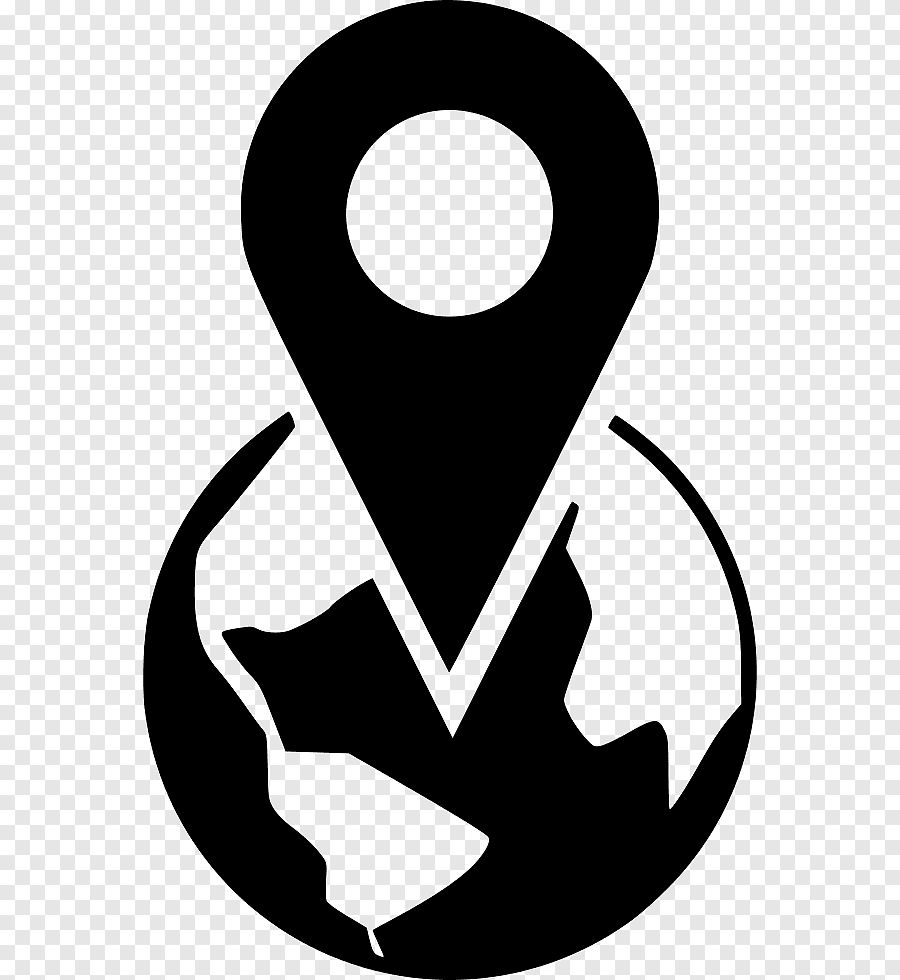
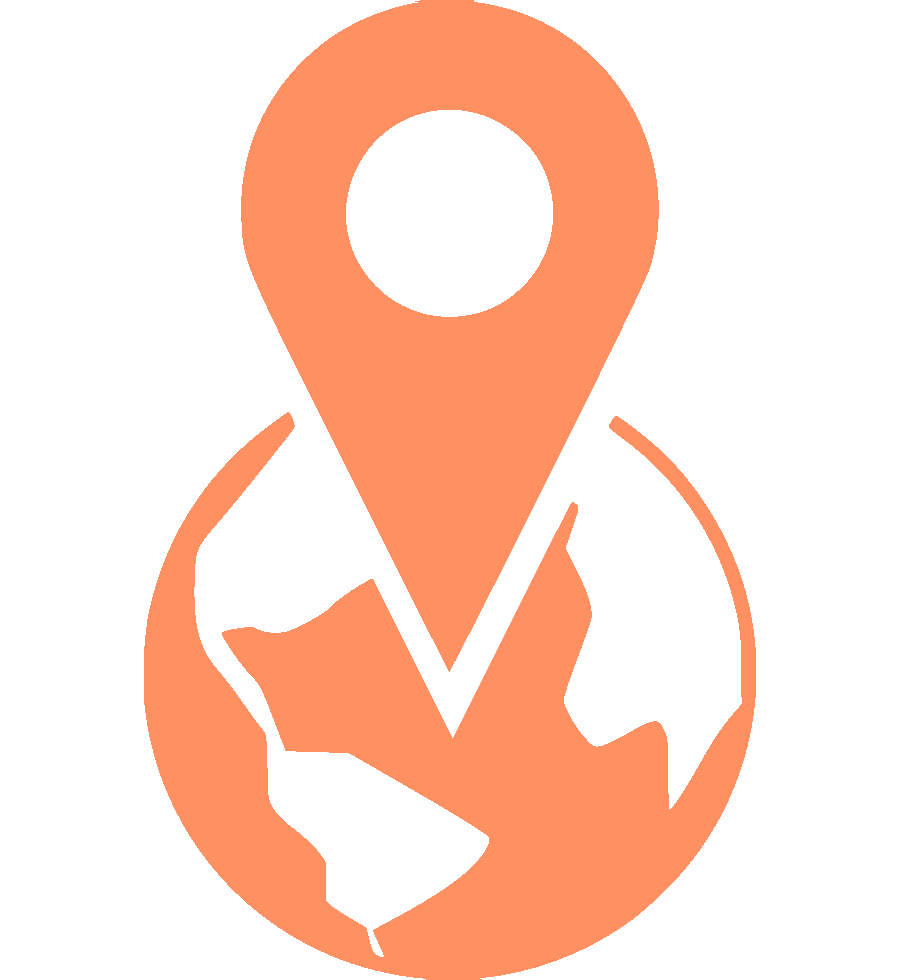
Adding color to the background and the text, also added a filter on the map with js.

diff --git a/src/assets/sass/style.css b/src/assets/sass/style.css
@@ -1,10 +1,11 @@
 @charset "UTF-8";
 body {
-  background: whitesmoke;
+  background: #11223B;
+  color: #FF9061;
   cursor: grab;
 }
 body h1 {
-  color: #9b7241;
+  color: #EB7A5E;
   font-size: 2rem;
 }
 body #popup-content p {
@@ -23,16 +24,16 @@ body aside #arrowNav {
   margin-bottom: auto;
   padding-top: 10px;
   padding-bottom: 10px;
-  border-left: black 3px solid;
-  border-bottom: black 3px solid;
-  border-top: black 3px solid;
+  border-left: #EB7A5E 3px solid;
+  border-bottom: #EB7A5E 3px solid;
+  border-top: #EB7A5E 3px solid;
   border-top-left-radius: 30%;
   border-bottom-left-radius: 30%;
 }
 body aside nav {
-  border-left: black 3px solid;
-  border-bottom: black 3px solid;
-  border-top: black 3px solid;
+  border-left: #EB7A5E 3px solid;
+  border-bottom: #EB7A5E 3px solid;
+  border-top: #EB7A5E 3px solid;
 }
 body aside nav img {
   margin: 0;

diff --git a/src/assets/sass/style.scss b/src/assets/sass/style.scss
@@ -1,8 +1,9 @@
 body {
-  background: whitesmoke;
+  background: #11223B;
+  color: #FF9061;
 
   h1{
-    color: #9b7241;
+    color: #EB7A5E ;
     font-size: 2rem;
   
   }
@@ -27,17 +28,17 @@ body {
       margin-bottom: auto;
       padding-top: 10px;
       padding-bottom: 10px;
-      border-left: black 3px solid;
-      border-bottom: black 3px solid;
-      border-top: black 3px solid;
+      border-left: #EB7A5E 3px solid;
+      border-bottom: #EB7A5E 3px solid;
+      border-top: #EB7A5E 3px solid;
       border-top-left-radius: 30%;
       border-bottom-left-radius: 30%;
     }
 
     nav {
-      border-left: black 3px solid;
-      border-bottom: black 3px solid;
-      border-top: black 3px solid;
+      border-left: #EB7A5E 3px solid;
+      border-bottom: #EB7A5E 3px solid;
+      border-top: #EB7A5E 3px solid;
 
       img {
         margin: 0;

diff --git a/src/index.html b/src/index.html
@@ -23,7 +23,7 @@
         <img id="arrowNav" src="assets/images/ArrowIcon.png" alt="Icon of an arrow">
         <nav>
             <a href="" id="audioPage" data-pageLocation="audio"><img src="assets/images/SoundIcon.png" alt="Icon of a sound button"></a>
-            <a href="" id="settingsPage" data-pageLocation="settings"><img src="assets/images/SettingIcon.jpg" alt="Icon of the settings"></a>
+            <a href="" id="settingsPage" data-pageLocation="settings"><img src="assets/images/SettingIcon.png" alt="Icon of the settings"></a>
             <a href="" id="mapPage" data-pageLocation="echoMap"><img src="assets/images/MapIcon.png" alt="Icon of a map"></a>
             <a href="" id="contactsPage" data-pageLocation="contacts"><img src="assets/images/ContactIcon.png" alt="Icon of contact"></a>
         </nav>

diff --git a/src/assets/js/maps.js b/src/assets/js/maps.js
@@ -131,6 +131,11 @@ function addMarkerLayer(map, longitude, latitude, markerName) {
         }
     });
 
+    map.on('postcompose',function(e){
+        document.querySelector('canvas').style.filter="invert(90%)";
+    });
+
+
 }
 
 function addProximityLayer(map, longitude, latitude) {
